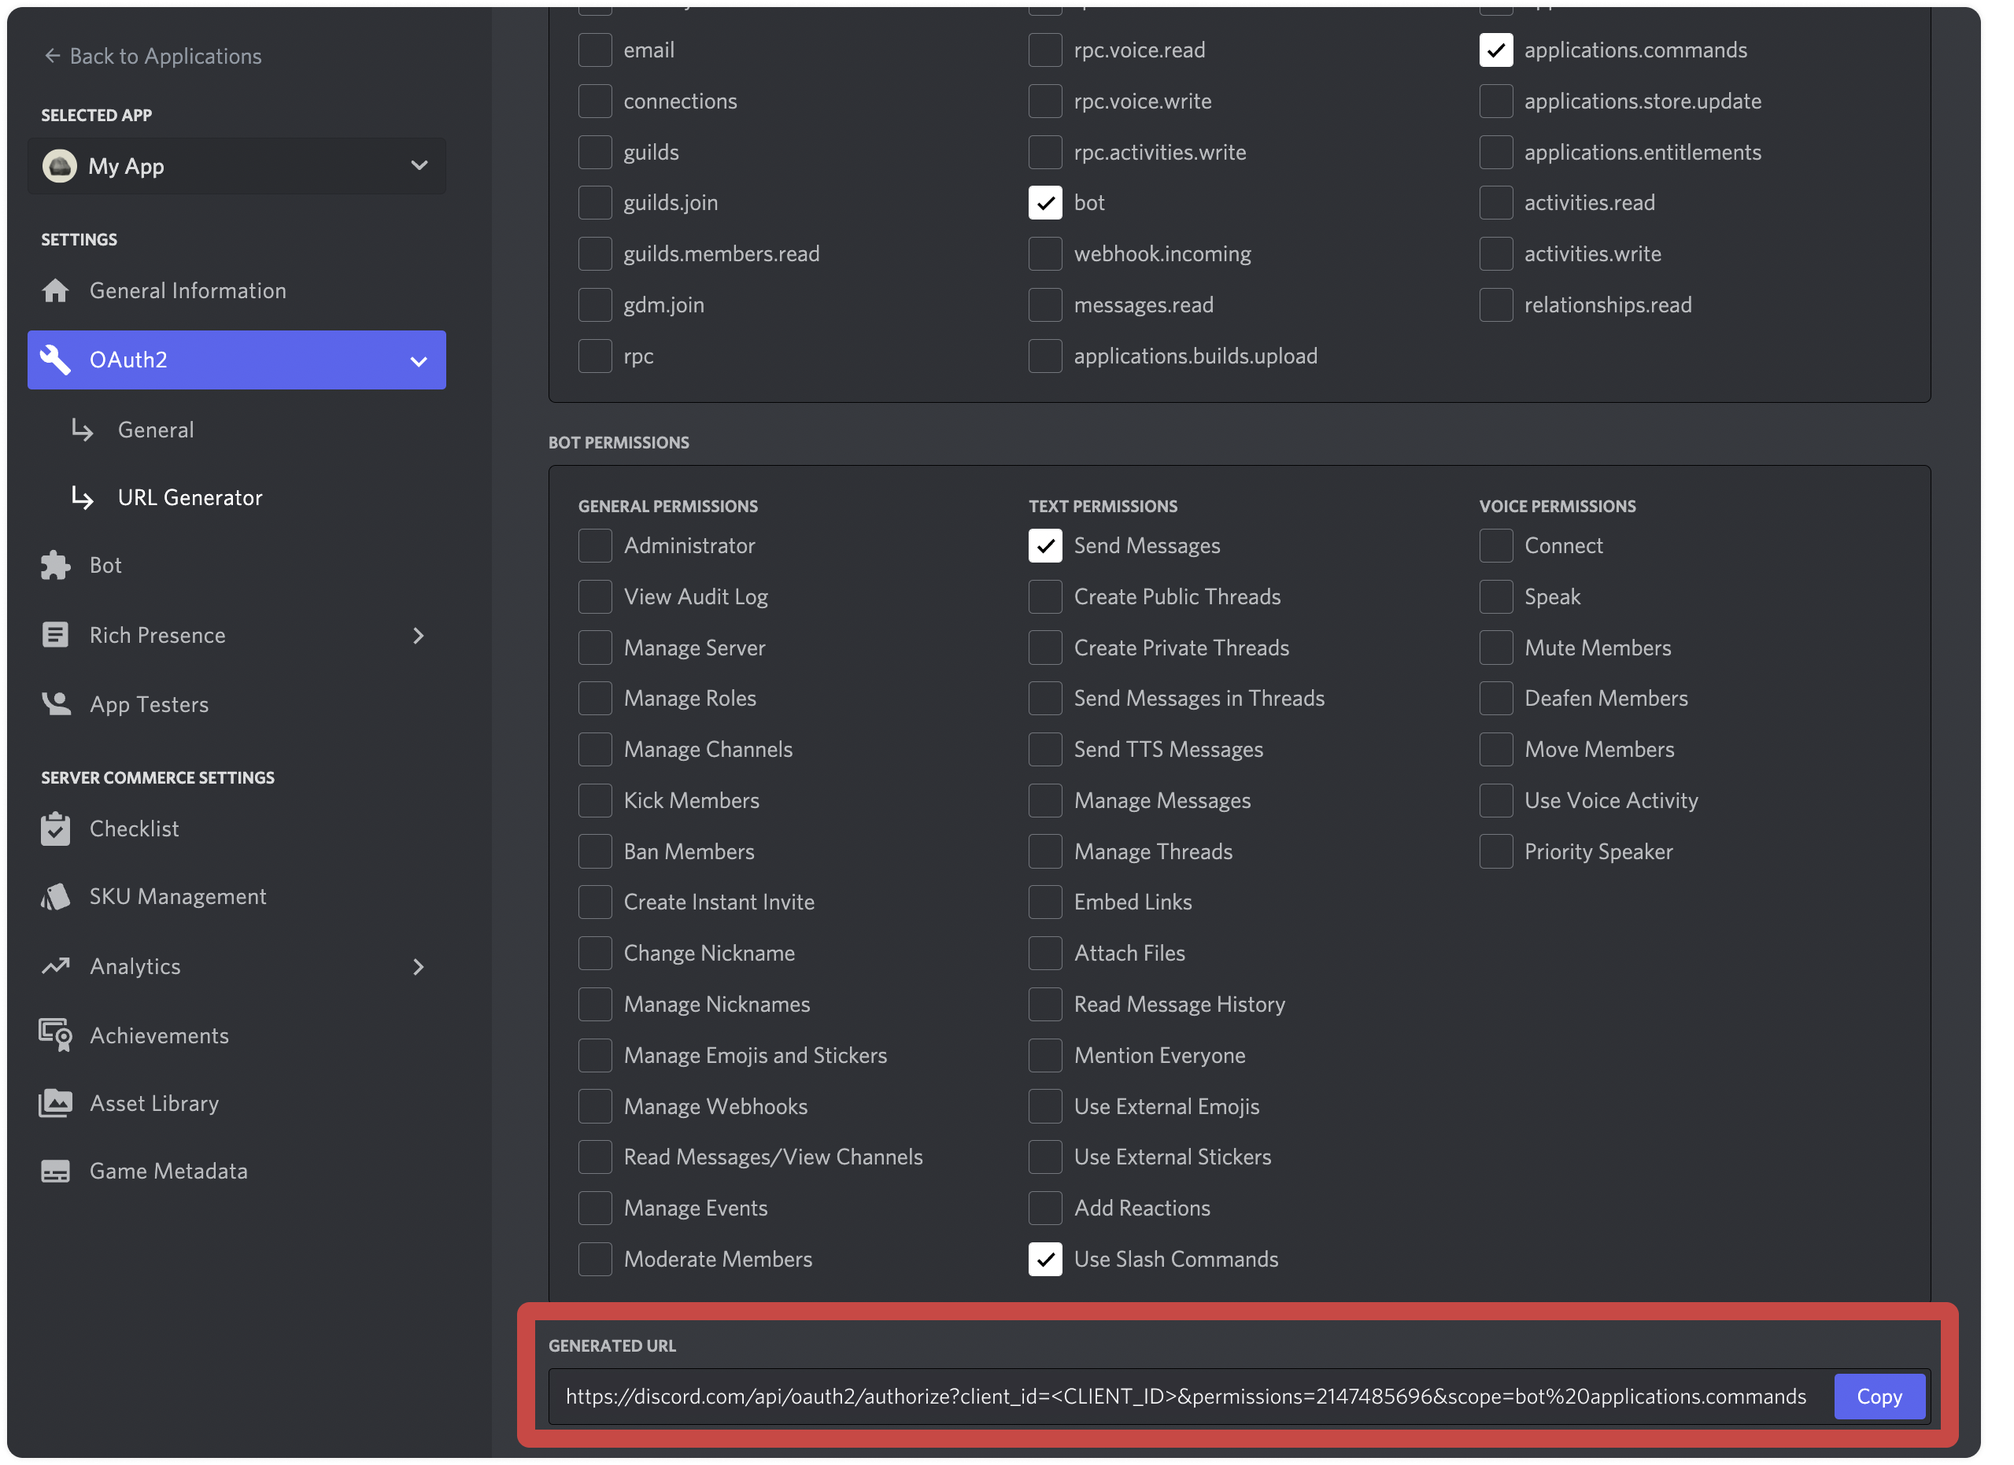
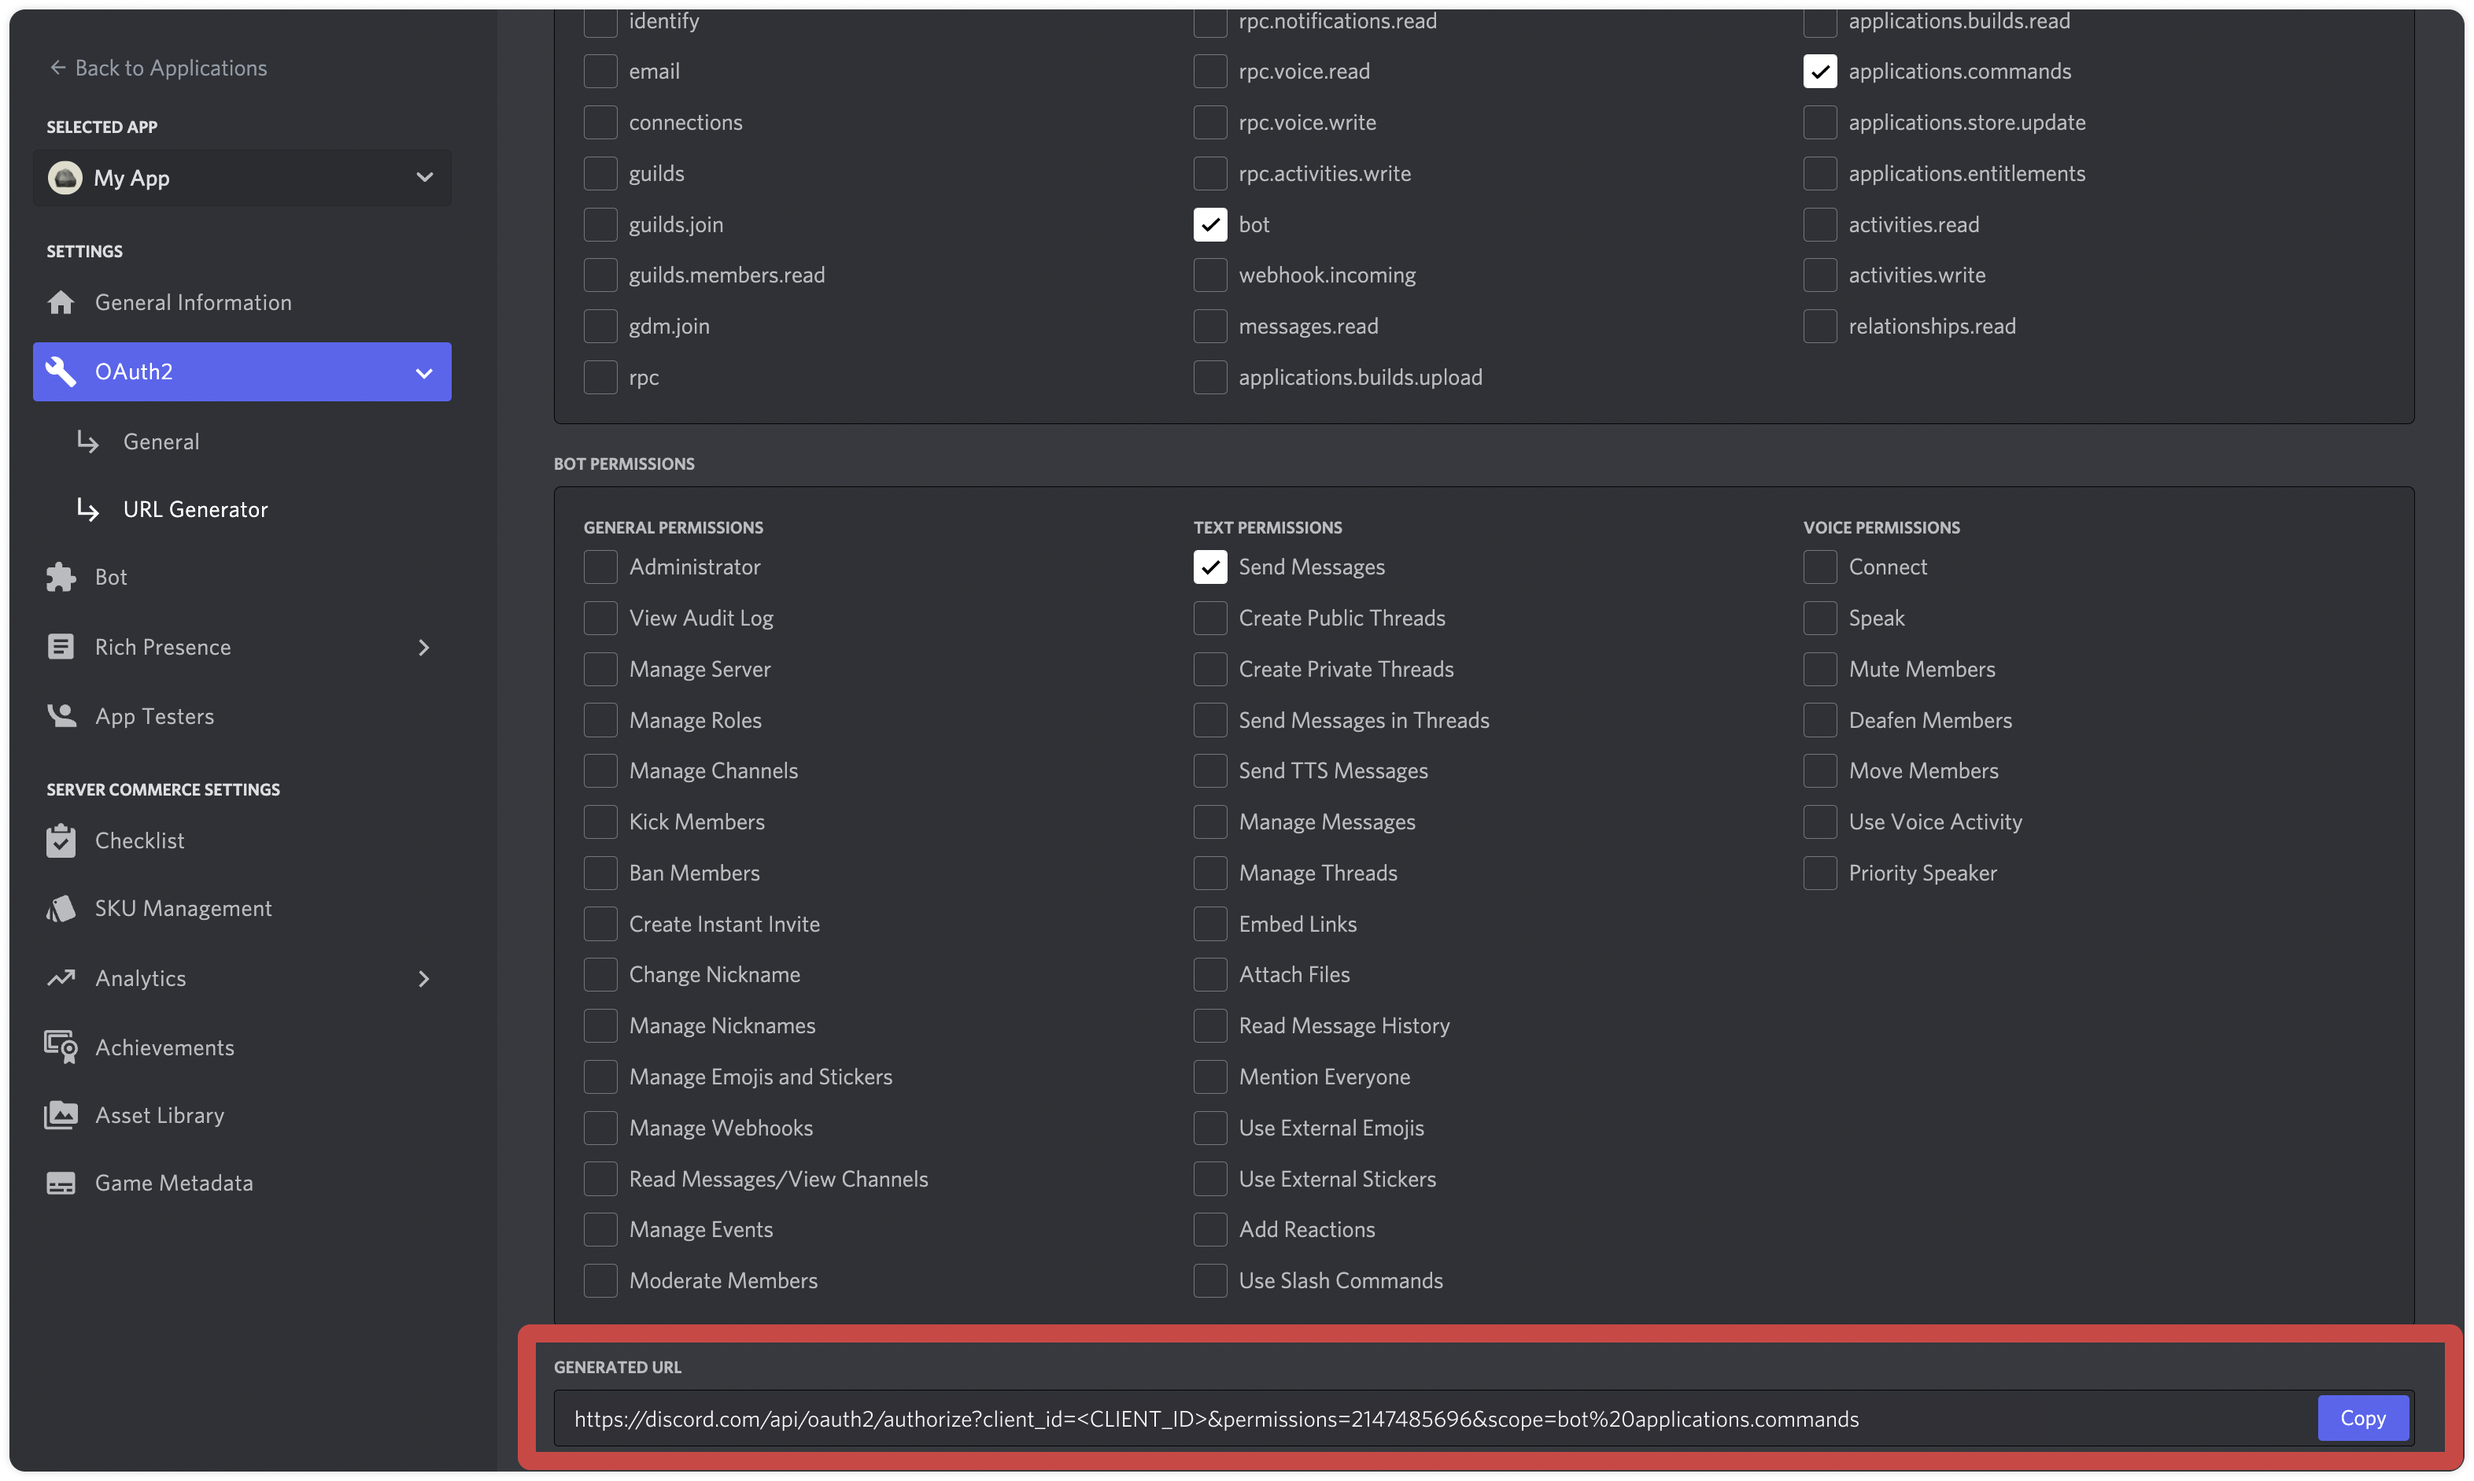
update permissions

diff --git a/docs/Getting_Started.md b/docs/Getting_Started.md
@@ -70,11 +70,11 @@ Apps need approval to perform actions inside of Discord (like installing a slash
 
 For now, we’ll just add a couple of permissions:
 - `applications.commands` lets your app create commands in guilds its installed
-- `bot` is to enable your bot user. After you click bot, you can also add individual permissions. For now, check **Send Messages** and **Use Slash Commands**.
+- `bot` is to enable your bot user. After you click bot, you can also add individual permissions. For now, just check **Send Messages**.
 
 ![URL generator screenshot](url-generator.png)
 
-Once you add the permissions, you should see a URL you can copy to install your app.
+Once you add the permissions, you should see a URL that you can copy to install your app.
 
 ### Installing your app
 
